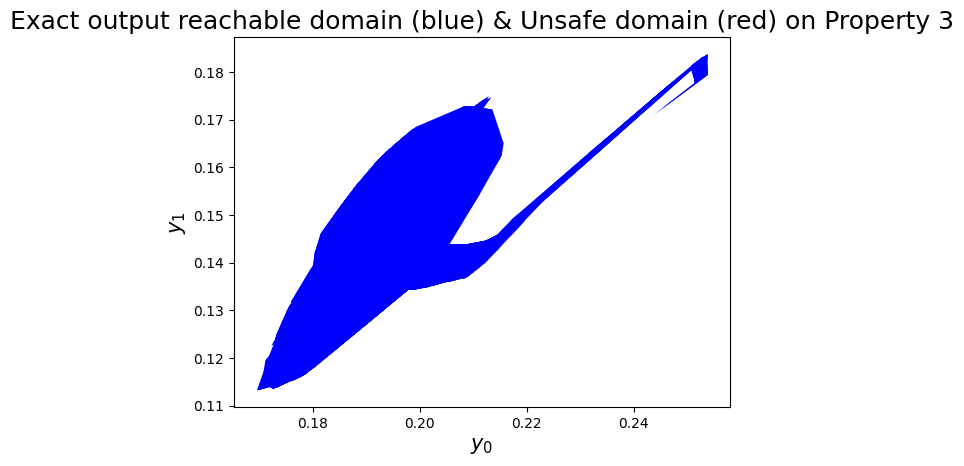
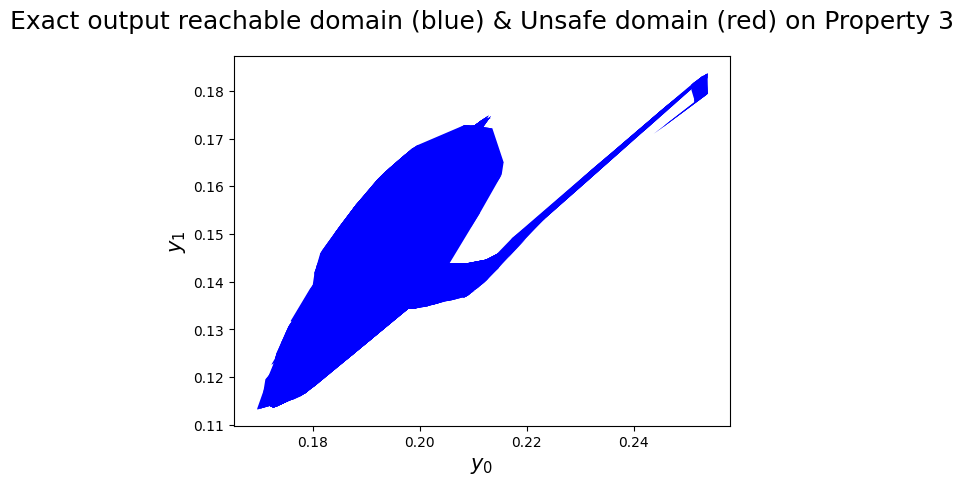
change image

diff --git a/examples/ACASXu/repair/main_reachable_domain.py b/examples/ACASXu/repair/main_reachable_domain.py
@@ -78,7 +78,7 @@ if __name__ == "__main__":
     ax.autoscale()
     ax.set_xlabel('$y_'+str(dim0)+'$', fontsize=15)
     ax.set_ylabel('$y_'+str(dim1)+'$', fontsize=15)
-    plt.title('Exact output reachable domain (blue) & Unsafe domain (red) on'+' Property '+args.property, fontsize=18)
+    plt.title('Exact output reachable domain (blue) & Unsafe domain (red) on'+' Property '+args.property, fontsize=18, pad=20)
     if not os.path.exists('images'):
         os.mkdir('images')
 
